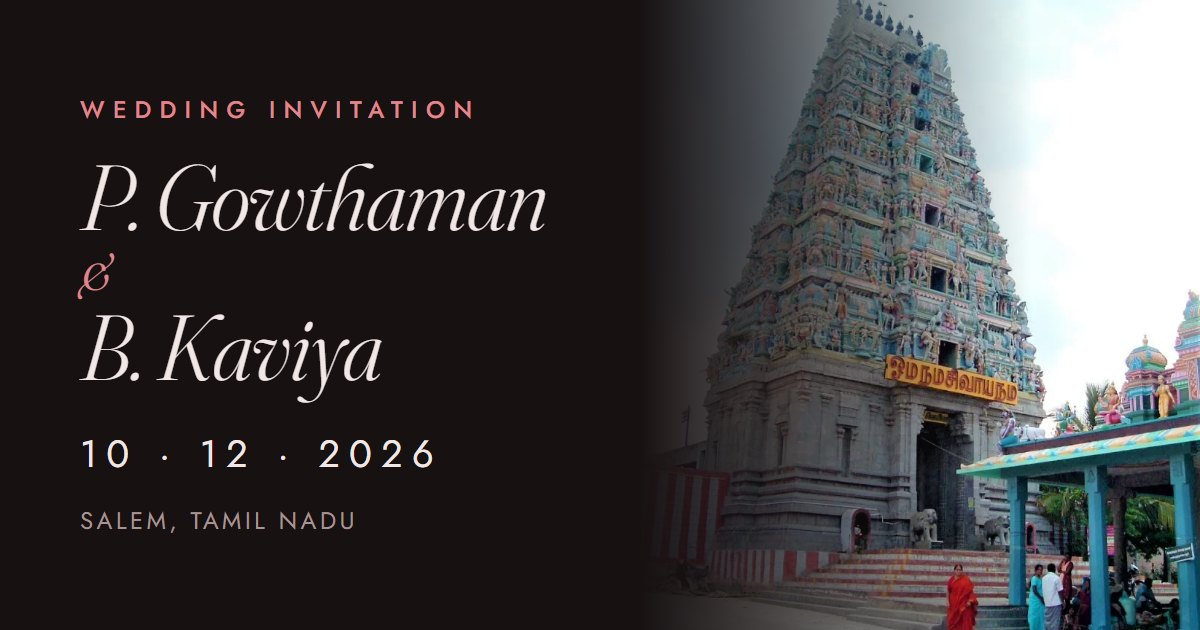
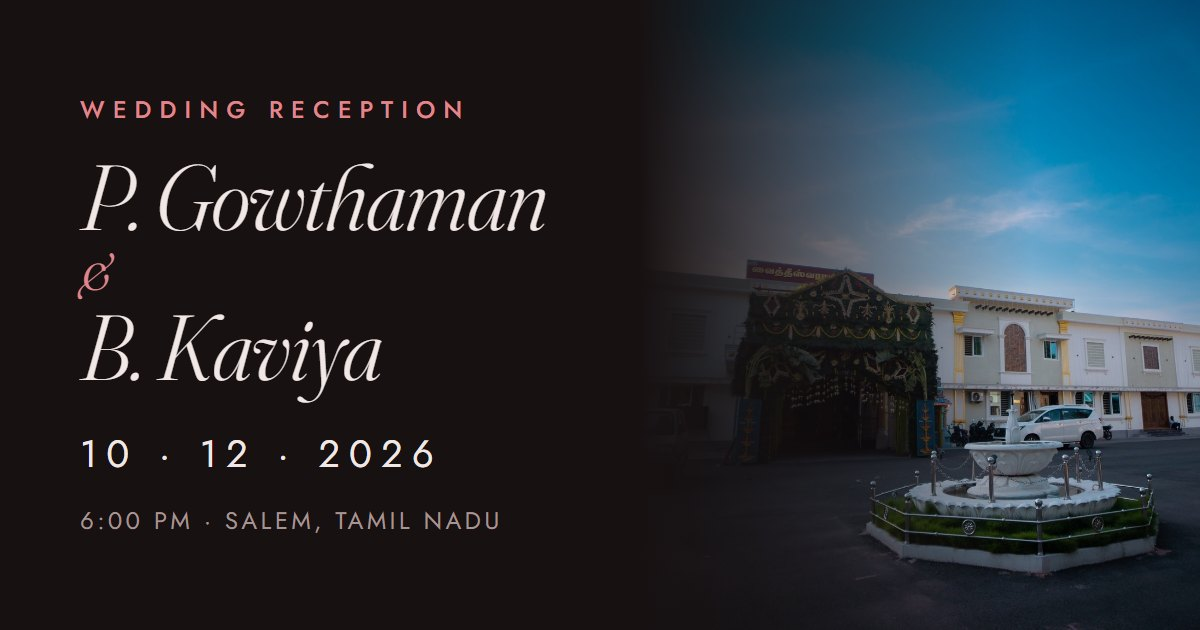
Reception-only invite with route to the mahal (bus diagram, map, route links)

diff --git a/index.html b/index.html
@@ -4,10 +4,10 @@
 <meta charset="utf-8">
 <meta name="viewport" content="width=device-width,initial-scale=1,viewport-fit=cover">
 <title>Gowthaman and Kaviya</title>
-<meta name="description" content="Wedding invitation of P. Gowthaman and B. Kaviya, 10 December 2026, Salem.">
+<meta name="description" content="Wedding reception of P. Gowthaman and B. Kaviya, 10 December 2026, 6:00 PM, Salem.">
 <meta property="og:type" content="website">
-<meta property="og:title" content="Gowthaman &amp; Kaviya – Wedding Invitation">
-<meta property="og:description" content="Join us on 10 December 2026 in Salem to bless us. Wedding at 8:45 AM, reception at 6:00 PM.">
+<meta property="og:title" content="Gowthaman &amp; Kaviya – Wedding Reception">
+<meta property="og:description" content="Join us on 10 December 2026 at 6:00 PM in Salem to celebrate and bless us.">
 <meta property="og:image" content="https://pgowthaman.github.io/gowthaman-kaviya-wedding/images/og.jpg">
 <meta property="og:image:width" content="1200">
 <meta property="og:image:height" content="630">
@@ -147,6 +147,28 @@ canvas.petals{position:absolute;inset:0;width:100%;height:100%;pointer-events:no
 .route .k{font-size:11px;letter-spacing:.24em;text-transform:uppercase;color:var(--accent)}
 .route .v{font-size:17px;line-height:1.5}
 .route .d{font-size:14px;color:var(--muted);line-height:1.5}
+/* route diagram, by bus */
+.bus{width:100%;text-align:left;margin-top:6px}
+.in-w .route{width:100%;box-sizing:border-box}
+.note.alt{margin-top:0;text-align:center}
+.note.alt a{color:var(--accent);text-underline-offset:3px}
+.mapbox{position:relative;width:100%;aspect-ratio:4/3;max-height:380px;border:1px solid var(--rule);background:var(--panel);overflow:hidden}
+.mapbox iframe{position:absolute;inset:0;width:100%;height:100%;border:0}
+.bus .k{display:block;font-size:11px;letter-spacing:.24em;text-transform:uppercase;color:var(--accent);margin-bottom:14px}
+.ta .bus .k{font-size:14px;letter-spacing:.03em;text-transform:none}
+.path{list-style:none;margin:0;padding:0}
+.path li{position:relative;padding:0 0 26px 38px;min-height:26px}
+.path li::before{content:"";position:absolute;left:8px;top:22px;bottom:-4px;border-left:2px dashed var(--accent);opacity:.55}
+.path li.end{padding-bottom:0}
+.path li.end::before{display:none}
+.path li::after{content:"";position:absolute;left:1px;top:3px;width:14px;height:14px;border-radius:50%;border:2px solid var(--accent);background:var(--night)}
+.path li.stop::after{background:var(--accent);box-shadow:0 0 0 5px rgba(234,163,168,.22)}
+.path li.end::after{border-radius:50% 50% 50% 0;transform:rotate(-45deg);background:var(--accent);width:15px;height:15px;left:1px;top:3px}
+.path .n{display:flex;flex-wrap:wrap;align-items:center;gap:8px}
+.path .n b{font-weight:400;font-size:17px;line-height:1.4}
+.path .n em{font-style:normal;font-size:11px;letter-spacing:.14em;text-transform:uppercase;color:var(--night);background:var(--accent);padding:3px 9px;border-radius:2px}
+.ta .path .n em{letter-spacing:.02em;text-transform:none;font-size:13px}
+.path .s{display:block;font-size:14px;color:var(--muted);line-height:1.5;margin-top:3px}
 .ta .route .k{font-size:14px;letter-spacing:.03em;text-transform:none}
 /* add to calendar + schedule */
 .txt .row{justify-content:flex-start;margin-top:4px}
@@ -215,8 +237,8 @@ canvas.petals{position:absolute;inset:0;width:100%;height:100%;pointer-events:no
 
 <div class="bar" id="bar">
   <nav aria-label="Sections">
-    <a href="#wedding" data-t="Wedding|திருமணம்">Wedding</a>
     <a href="#reception" data-t="Reception|வரவேற்பு">Reception</a>
+    <a href="#route" data-t="Route|வழி">Route</a>
     <a href="#contact" data-t="Contact|தொடர்பு">Contact</a>
   </nav>
   <div class="lang" role="group" aria-label="Language">
@@ -233,7 +255,7 @@ canvas.petals{position:absolute;inset:0;width:100%;height:100%;pointer-events:no
     <svg class="mandala" viewBox="-100 -100 200 200" aria-hidden="true"><g fill="none" stroke="currentColor" stroke-width=".55"><path transform="rotate(0)" d="M0 0C8 -9.1 8 -18.2 0 -26C-8 -18.2 -8 -9.1 0 0Z"/><path transform="rotate(45)" d="M0 0C8 -9.1 8 -18.2 0 -26C-8 -18.2 -8 -9.1 0 0Z"/><path transform="rotate(90)" d="M0 0C8 -9.1 8 -18.2 0 -26C-8 -18.2 -8 -9.1 0 0Z"/><path transform="rotate(135)" d="M0 0C8 -9.1 8 -18.2 0 -26C-8 -18.2 -8 -9.1 0 0Z"/><path transform="rotate(180)" d="M0 0C8 -9.1 8 -18.2 0 -26C-8 -18.2 -8 -9.1 0 0Z"/><path transform="rotate(225)" d="M0 0C8 -9.1 8 -18.2 0 -26C-8 -18.2 -8 -9.1 0 0Z"/><path transform="rotate(270)" d="M0 0C8 -9.1 8 -18.2 0 -26C-8 -18.2 -8 -9.1 0 0Z"/><path transform="rotate(315)" d="M0 0C8 -9.1 8 -18.2 0 -26C-8 -18.2 -8 -9.1 0 0Z"/><path transform="rotate(22.5)" d="M0 -12C15 -26 15 -40 0 -52C-15 -40 -15 -26 0 -12Z"/><path transform="rotate(67.5)" d="M0 -12C15 -26 15 -40 0 -52C-15 -40 -15 -26 0 -12Z"/><path transform="rotate(112.5)" d="M0 -12C15 -26 15 -40 0 -52C-15 -40 -15 -26 0 -12Z"/><path transform="rotate(157.5)" d="M0 -12C15 -26 15 -40 0 -52C-15 -40 -15 -26 0 -12Z"/><path transform="rotate(202.5)" d="M0 -12C15 -26 15 -40 0 -52C-15 -40 -15 -26 0 -12Z"/><path transform="rotate(247.5)" d="M0 -12C15 -26 15 -40 0 -52C-15 -40 -15 -26 0 -12Z"/><path transform="rotate(292.5)" d="M0 -12C15 -26 15 -40 0 -52C-15 -40 -15 -26 0 -12Z"/><path transform="rotate(337.5)" d="M0 -12C15 -26 15 -40 0 -52C-15 -40 -15 -26 0 -12Z"/><path transform="rotate(0)" d="M0 -16C18 -32.8 18 -49.599999999999994 0 -64C-18 -49.599999999999994 -18 -32.8 0 -16Z"/><path transform="rotate(45)" d="M0 -16C18 -32.8 18 -49.599999999999994 0 -64C-18 -49.599999999999994 -18 -32.8 0 -16Z"/><path transform="rotate(90)" d="M0 -16C18 -32.8 18 -49.599999999999994 0 -64C-18 -49.599999999999994 -18 -32.8 0 -16Z"/><path transform="rotate(135)" d="M0 -16C18 -32.8 18 -49.599999999999994 0 -64C-18 -49.599999999999994 -18 -32.8 0 -16Z"/><path transform="rotate(180)" d="M0 -16C18 -32.8 18 -49.599999999999994 0 -64C-18 -49.599999999999994 -18 -32.8 0 -16Z"/><path transform="rotate(225)" d="M0 -16C18 -32.8 18 -49.599999999999994 0 -64C-18 -49.599999999999994 -18 -32.8 0 -16Z"/><path transform="rotate(270)" d="M0 -16C18 -32.8 18 -49.599999999999994 0 -64C-18 -49.599999999999994 -18 -32.8 0 -16Z"/><path transform="rotate(315)" d="M0 -16C18 -32.8 18 -49.599999999999994 0 -64C-18 -49.599999999999994 -18 -32.8 0 -16Z"/><circle r="70"/><circle cx="0" cy="-82" r="8"/><circle cx="21.22" cy="-79.21" r="8"/><circle cx="41" cy="-71.01" r="8"/><circle cx="57.98" cy="-57.98" r="8"/><circle cx="71.01" cy="-41" r="8"/><circle cx="79.21" cy="-21.22" r="8"/><circle cx="82" cy="0" r="8"/><circle cx="79.21" cy="21.22" r="8"/><circle cx="71.01" cy="41" r="8"/><circle cx="57.98" cy="57.98" r="8"/><circle cx="41" cy="71.01" r="8"/><circle cx="21.22" cy="79.21" r="8"/><circle cx="0" cy="82" r="8"/><circle cx="-21.22" cy="79.21" r="8"/><circle cx="-41" cy="71.01" r="8"/><circle cx="-57.98" cy="57.98" r="8"/><circle cx="-71.01" cy="41" r="8"/><circle cx="-79.21" cy="21.22" r="8"/><circle cx="-82" cy="0" r="8"/><circle cx="-79.21" cy="-21.22" r="8"/><circle cx="-71.01" cy="-41" r="8"/><circle cx="-57.98" cy="-57.98" r="8"/><circle cx="-41" cy="-71.01" r="8"/><circle cx="-21.22" cy="-79.21" r="8"/><circle r="97"/></g><g fill="currentColor"><circle r="1.6"/><circle cx="0" cy="-30" r="1.1"/><circle cx="21.21" cy="-21.21" r="1.1"/><circle cx="30" cy="0" r="1.1"/><circle cx="21.21" cy="21.21" r="1.1"/><circle cx="0" cy="30" r="1.1"/><circle cx="-21.21" cy="21.21" r="1.1"/><circle cx="-30" cy="0" r="1.1"/><circle cx="-21.21" cy="-21.21" r="1.1"/><circle cx="0" cy="-70" r="1.1"/><circle cx="26.79" cy="-64.67" r="1.1"/><circle cx="49.5" cy="-49.5" r="1.1"/><circle cx="64.67" cy="-26.79" r="1.1"/><circle cx="70" cy="0" r="1.1"/><circle cx="64.67" cy="26.79" r="1.1"/><circle cx="49.5" cy="49.5" r="1.1"/><circle cx="26.79" cy="64.67" r="1.1"/><circle cx="0" cy="70" r="1.1"/><circle cx="-26.79" cy="64.67" r="1.1"/><circle cx="-49.5" cy="49.5" r="1.1"/><circle cx="-64.67" cy="26.79" r="1.1"/><circle cx="-70" cy="0" r="1.1"/><circle cx="-64.67" cy="-26.79" r="1.1"/><circle cx="-49.5" cy="-49.5" r="1.1"/><circle cx="-26.79" cy="-64.67" r="1.1"/><circle cx="0" cy="-82" r="1.1"/><circle cx="21.22" cy="-79.21" r="1.1"/><circle cx="41" cy="-71.01" r="1.1"/><circle cx="57.98" cy="-57.98" r="1.1"/><circle cx="71.01" cy="-41" r="1.1"/><circle cx="79.21" cy="-21.22" r="1.1"/><circle cx="82" cy="0" r="1.1"/><circle cx="79.21" cy="21.22" r="1.1"/><circle cx="71.01" cy="41" r="1.1"/><circle cx="57.98" cy="57.98" r="1.1"/><circle cx="41" cy="71.01" r="1.1"/><circle cx="21.22" cy="79.21" r="1.1"/><circle cx="0" cy="82" r="1.1"/><circle cx="-21.22" cy="79.21" r="1.1"/><circle cx="-41" cy="71.01" r="1.1"/><circle cx="-57.98" cy="57.98" r="1.1"/><circle cx="-71.01" cy="41" r="1.1"/><circle cx="-79.21" cy="21.22" r="1.1"/><circle cx="-82" cy="0" r="1.1"/><circle cx="-79.21" cy="-21.22" r="1.1"/><circle cx="-71.01" cy="-41" r="1.1"/><circle cx="-57.98" cy="-57.98" r="1.1"/><circle cx="-41" cy="-71.01" r="1.1"/><circle cx="-21.22" cy="-79.21" r="1.1"/></g></svg>
     <canvas class="petals" id="petals" aria-hidden="true"></canvas>
     <div class="in-w">
-      <div class="eyebrow" data-r style="--d:.1s" data-t="Wedding Invitation|திருமண அழைப்பிதழ்">Wedding Invitation</div>
+      <div class="eyebrow" data-r style="--d:.1s" data-t="Wedding Reception|திருமண வரவேற்பு">Wedding Reception</div>
       <div class="names" data-r style="--d:.25s">
         <h1 data-t="P. Gowthaman|ப. கௌதமன்">P. Gowthaman</h1>
         <div class="amp">&amp;</div>
@@ -290,27 +312,6 @@ canvas.petals{position:absolute;inset:0;width:100%;height:100%;pointer-events:no
   </section>
 
   <!-- 4 wedding -->
-  <section class="split rev" id="wedding">
-    <figure class="pic"><img src="images/temple.webp" style="--pos:48% 42%" alt="The gopuram and entrance of Sri Thanthondreeswarar Temple, Belur"><figcaption data-t="Sri Thanthondreeswarar Temple|ஸ்ரீ தான்தோன்றீஸ்வரர் திருக்கோயில்">Sri Thanthondreeswarar Temple</figcaption></figure>
-    <div class="txt">
-      <div class="small" data-r data-t="The wedding|திருமணம்">The wedding</div>
-      <p class="lead" data-r style="--d:.05s" data-t="Come bless us as we tie the knot! The muhurtham is at 8:45 AM, so try to get there a little early.|எங்கள் திருமணத்தில் கலந்துகொண்டு வாழ்த்த வாருங்கள்! முகூர்த்தம் காலை 8:45 மணிக்கு, சற்று முன்னதாகவே வாருங்கள்.">Come bless us as we tie the knot! The muhurtham is at 8:45 AM, so try to get there a little early.</p>
-      <div class="big" data-r style="--d:.1s">10</div>
-      <div class="day" data-r style="--d:.2s" data-t="Thursday · December 2026|வியாழக்கிழமை · டிசம்பர் 2026">Thursday · December 2026</div>
-      <hr data-r style="--d:.25s">
-      <div class="sub" data-r style="--d:.3s" data-t="Muhurtham · Karthigai 24|முகூர்த்தம் · கார்த்திகை 24">Muhurtham · Karthigai 24</div>
-      <div class="bigtime" data-r style="--d:.35s" data-t="8:45 AM|காலை 8:45">8:45 AM</div>
-      <div class="chip" data-r style="--d:.4s" data-t="Auspicious time 7:30 – 9:00 AM|நல்ல நேரம்: காலை 7:30 – 9:00">Auspicious time 7:30 – 9:00 AM</div>
-      <div class="place" data-r style="--d:.45s" data-t="Sri Thanthondreeswarar Temple<br>Belur, Salem District<br>Tamil Nadu|ஸ்ரீ தான்தோன்றீஸ்வரர் திருக்கோயில்<br>பேளூர், சேலம் மாவட்டம்<br>தமிழ்நாடு">Sri Thanthondreeswarar Temple<br>Belur, Salem District<br>Tamil Nadu</div>
-      <a class="btn" data-r style="--d:.5s" href="https://maps.app.goo.gl/wpkzwN8cBXgbbJjm9" target="_blank" rel="noopener" data-t="Get directions|வழி காண">Get directions</a>
-      <div class="row cal" data-r style="--d:.55s">
-        <a class="btn solid" href="calendar/wedding.ics" data-t="Add to calendar|நாட்காட்டியில் சேர்">Add to calendar</a>
-        <a class="btn" href="https://calendar.google.com/calendar/render?action=TEMPLATE&amp;text=Wedding%20of%20Gowthaman%20and%20Kaviya&amp;dates=20261210T020000Z/20261210T033000Z&amp;details=Muhurtham%20at%208%3A45%20AM%20(auspicious%20time%207%3A30%20AM%20to%209%3A00%20AM).%20Invitation%3A%20https%3A%2F%2Fpgowthaman.github.io%2Fgowthaman-kaviya-wedding%2F&amp;location=Sri%20Thanthondreeswarar%20Temple%2C%20Belur%2C%20Salem%20District%2C%20Tamil%20Nadu" target="_blank" rel="noopener" data-t="Google Calendar|Google Calendar">Google Calendar</a>
-      </div>
-      <div class="note" data-r style="--d:.55s" data-t="Adds a reminder 24 hours before|நினைவூட்டல்: 24 மணி நேரத்திற்கு முன்">Adds a reminder 24 hours before</div>
-    </div>
-  </section>
-
   <!-- 6 reception, evening palette -->
   <section class="split over night" id="reception">
     <figure class="pic"><img src="images/mahal-gate.jpg" style="--pos:36% 62%" alt="Sri Vaitheeswara Mahal with its entrance gate decorated with palm leaves and flowers"><figcaption data-t="Sri Vaitheeswara Mahal|ஸ்ரீ வைத்தீஸ்வரா மஹால்">Sri Vaitheeswara Mahal</figcaption></figure>
@@ -321,17 +322,47 @@ canvas.petals{position:absolute;inset:0;width:100%;height:100%;pointer-events:no
       <hr data-r style="--d:.2s">
       <div class="sub" data-r style="--d:.25s" data-t="Then let’s celebrate! Join us in the evening. Your wishes mean the world to us.|மாலையில் வரவேற்பிலும் சந்திப்போம்! உங்கள் வாழ்த்துகள் எங்களுக்கு மிகவும் முக்கியம்.">Then let’s celebrate! Join us in the evening. Your wishes mean the world to us.</div>
       <div class="place" data-r style="--d:.3s" data-t="Sri Vaitheeswara Mahal<br>Valasaiyur, Harur Main Road<br>Salem District, Tamil Nadu|ஸ்ரீ வைத்தீஸ்வரா மஹால்<br>வலசையூர், அரூர் மெயின் ரோடு<br>சேலம் மாவட்டம், தமிழ்நாடு">Sri Vaitheeswara Mahal<br>Valasaiyur, Harur Main Road<br>Salem District, Tamil Nadu</div>
-      <div class="route" data-r style="--d:.33s">
-        <span class="k" data-t="Suggested route|பரிந்துரைக்கப்படும் வழி">Suggested route</span>
-        <span class="v" data-t="Via Ayothiapattinam Rama Kovil, Harur Main Road|அயோத்தியாப்பட்டணம் ராமர் கோவில் வழியாக, அரூர் மெயின் ரோடு">Via Ayothiapattinam Rama Kovil, Harur Main Road</span>
-        <span class="d" data-t="Only 3 km from the Rama Kovil|ராமர் கோவிலிலிருந்து 3 கி.மீ தூரம்">Only 3 km from the Rama Kovil</span>
-      </div>
       <a class="btn" data-r style="--d:.35s" href="https://maps.app.goo.gl/q5gWJJqYN99mscBv7" target="_blank" rel="noopener" data-t="Get directions|வழி காண">Get directions</a>
       <div class="row cal" data-r style="--d:.4s">
         <a class="btn solid" href="calendar/reception.ics" data-t="Add to calendar|நாட்காட்டியில் சேர்">Add to calendar</a>
         <a class="btn" href="https://calendar.google.com/calendar/render?action=TEMPLATE&amp;text=Wedding%20Reception%20of%20Gowthaman%20and%20Kaviya&amp;dates=20261210T123000Z/20261210T153000Z&amp;details=Reception%20from%206%3A00%20PM%20to%209%3A00%20PM.%20Invitation%3A%20https%3A%2F%2Fpgowthaman.github.io%2Fgowthaman-kaviya-wedding%2F&amp;location=Sri%20Vaitheeswara%20Mahal%2C%20Valasaiyur%2C%20Harur%20Main%20Road%2C%20Salem%20District%2C%20Tamil%20Nadu" target="_blank" rel="noopener" data-t="Google Calendar|Google Calendar">Google Calendar</a>
       </div>
       <div class="note" data-r style="--d:.4s" data-t="Adds a reminder 24 hours before|நினைவூட்டல்: 24 மணி நேரத்திற்கு முன்">Adds a reminder 24 hours before</div>
+    </div>
+  </section>
+
+  <!-- how to reach the mahal -->
+  <section class="ch over" id="route" style="background:var(--bg)">
+    <div class="in-w">
+      <div class="small" data-r data-t="Route to the mahal|மஹாலுக்கு வழி">Route to the mahal</div>
+      <div class="bus" data-r style="--d:.36s">
+        <span class="k" data-t="By bus|பேருந்தில் வர">By bus</span>
+        <ol class="path">
+          <li class="">
+            <span class="n"><b data-t="Salem New Bus Stand|சேலம் புதிய பேருந்து நிலையம்">Salem New Bus Stand</b></span>
+            <span class="s" data-t="Take a Harur-bound bus, via Ayothiapattinam|அரூர் செல்லும் பேருந்தில் ஏறுங்கள், அயோத்தியாப்பட்டணம் வழியாக">Take a Harur-bound bus, via Ayothiapattinam</span>
+          </li>
+          <li class="">
+            <span class="n"><b data-t="Ayothiapattinam Rama Kovil|அயோத்தியாப்பட்டணம் ராமர் கோவில்">Ayothiapattinam Rama Kovil</b></span>
+            <span class="s" data-t="Stay on the bus along Harur Main Road|அரூர் மெயின் ரோடு வழியாகத் தொடருங்கள்">Stay on the bus along Harur Main Road</span>
+          </li>
+          <li class="stop">
+            <span class="n"><b data-t="Valasaiyur bus stop|வலசையூர் பேருந்து நிறுத்தம்">Valasaiyur bus stop</b><em data-t="Get down here|இங்கே இறங்குங்கள்">Get down here</em></span>
+            <span class="s" data-t="A 10-minute walk (about 500 m) to the mahal|மஹாலுக்கு நடந்து சென்றால் சுமார் 10 நிமிடம் (சுமார் 500 மீட்டர்)">A 10-minute walk (about 500 m) to the mahal</span>
+          </li>
+          <li class="end">
+            <span class="n"><b data-t="Sri Vaitheeswara Mahal|ஸ்ரீ வைத்தீஸ்வரா மஹால்">Sri Vaitheeswara Mahal</b></span>
+          </li>
+        </ol>
+      </div>
+      <div class="mapbox" data-r style="--d:.4s">
+        <iframe src="https://maps.google.com/maps?saddr=Salem+New+Bus+Stand%2C+Salem&amp;daddr=Valasaiyur%2C+Tamil+Nadu+636122&amp;output=embed" title="Map: Salem New Bus Stand to Valasaiyur bus stop" loading="lazy" referrerpolicy="no-referrer-when-downgrade" allowfullscreen></iframe>
+      </div>
+      <div class="row" data-r style="--d:.45s">
+        <a class="btn solid" href="https://www.google.com/maps/dir/?api=1&amp;origin=Salem+New+Bus+Stand%2C+Salem&amp;destination=Valasaiyur%2C+Tamil+Nadu+636122" target="_blank" rel="noopener" data-t="Route from Salem New Bus Stand|சேலம் புதிய பேருந்து நிலையத்திலிருந்து வழி">Route from Salem New Bus Stand</a>
+        <a class="btn" href="https://maps.app.goo.gl/q5gWJJqYN99mscBv7" target="_blank" rel="noopener" data-t="Open mahal in Maps|மஹாலை வரைபடத்தில் காண">Open mahal in Maps</a>
+      </div>
+      <div class="note alt" data-r style="--d:.5s" data-t="Coming from the Old Bus Stand? <a href='https://www.google.com/maps/dir/Salem+Old+Bus+Stand,+M535%2B4M8,+Salem,+Tamil+Nadu+636001/Valasaiyur,+Tamil+Nadu+636122/@11.6745427,78.1666854,12992m/data=!3m2!1e3!4b1!4m14!4m13!1m5!1m1!1s0x3babf10060e87b3f:0x729cf34f519580d5!2m2!1d78.1591995!2d11.6527917!1m5!1m1!1s0x3babf305fb15bc79:0x322dc6e01919721d!2m2!1d78.2561578!2d11.7059191!3e0' target='_blank' rel='noopener'>See this route</a>|பழைய பேருந்து நிலையத்திலிருந்து வருகிறீர்களா? <a href='https://www.google.com/maps/dir/Salem+Old+Bus+Stand,+M535%2B4M8,+Salem,+Tamil+Nadu+636001/Valasaiyur,+Tamil+Nadu+636122/@11.6745427,78.1666854,12992m/data=!3m2!1e3!4b1!4m14!4m13!1m5!1m1!1s0x3babf10060e87b3f:0x729cf34f519580d5!2m2!1d78.1591995!2d11.6527917!1m5!1m1!1s0x3babf305fb15bc79:0x322dc6e01919721d!2m2!1d78.2561578!2d11.7059191!3e0' target='_blank' rel='noopener'>இந்த வழியைப் பாருங்கள்</a>">Coming from the Old Bus Stand? <a href='https://www.google.com/maps/dir/Salem+Old+Bus+Stand,+M535%2B4M8,+Salem,+Tamil+Nadu+636001/Valasaiyur,+Tamil+Nadu+636122/@11.6745427,78.1666854,12992m/data=!3m2!1e3!4b1!4m14!4m13!1m5!1m1!1s0x3babf10060e87b3f:0x729cf34f519580d5!2m2!1d78.1591995!2d11.6527917!1m5!1m1!1s0x3babf305fb15bc79:0x322dc6e01919721d!2m2!1d78.2561578!2d11.7059191!3e0' target='_blank' rel='noopener'>See this route</a></div>
     </div>
   </section>
 
@@ -350,9 +381,9 @@ canvas.petals{position:absolute;inset:0;width:100%;height:100%;pointer-events:no
   </section>
 
   <!-- countdown to the wedding, closes the page -->
-  <section class="ch over" aria-label="Countdown to the wedding ceremony" style="background:var(--bg)">
+  <section class="ch over" aria-label="Countdown to the reception" style="background:var(--bg)">
     <div class="in-w">
-      <div class="small" data-r data-t="Until we say I do|திருமணத்திற்கு இன்னும்">Until we say I do</div>
+      <div class="small" data-r data-t="Until the reception|வரவேற்புக்கு இன்னும்">Until the reception</div>
       <div class="count" data-r style="--d:.1s">
         <div><b id="d">--</b><span data-t="Days|நாட்கள்">Days</span></div>
         <div><b id="h">--</b><span data-t="Hours|மணி">Hours</span></div>
@@ -466,11 +497,11 @@ canvas.petals{position:absolute;inset:0;width:100%;height:100%;pointer-events:no
         if(e.isIntersecting){links.forEach(function(a){a.classList.toggle('on',a.getAttribute('href')==='#'+e.target.id)})}
       });
     },{rootMargin:'-45% 0px -45% 0px'});
-    ['wedding','reception','contact'].forEach(function(id){var s=document.getElementById(id);if(s)so.observe(s)});
+    ['reception','route','contact'].forEach(function(id){var s=document.getElementById(id);if(s)so.observe(s)});
   }
 
-  /* countdown to the ceremony: 10 Dec 2026, 8:45 AM IST */
-  var target=new Date('2026-12-10T08:45:00+05:30').getTime();
+  /* countdown to the reception: 10 Dec 2026, 6:00 PM IST */
+  var target=new Date('2026-12-10T18:00:00+05:30').getTime();
   var el={d:document.getElementById('d'),h:document.getElementById('h'),m:document.getElementById('m'),s:document.getElementById('s')};
   function p(n){return n<10?'0'+n:''+n}
   function tick(){
